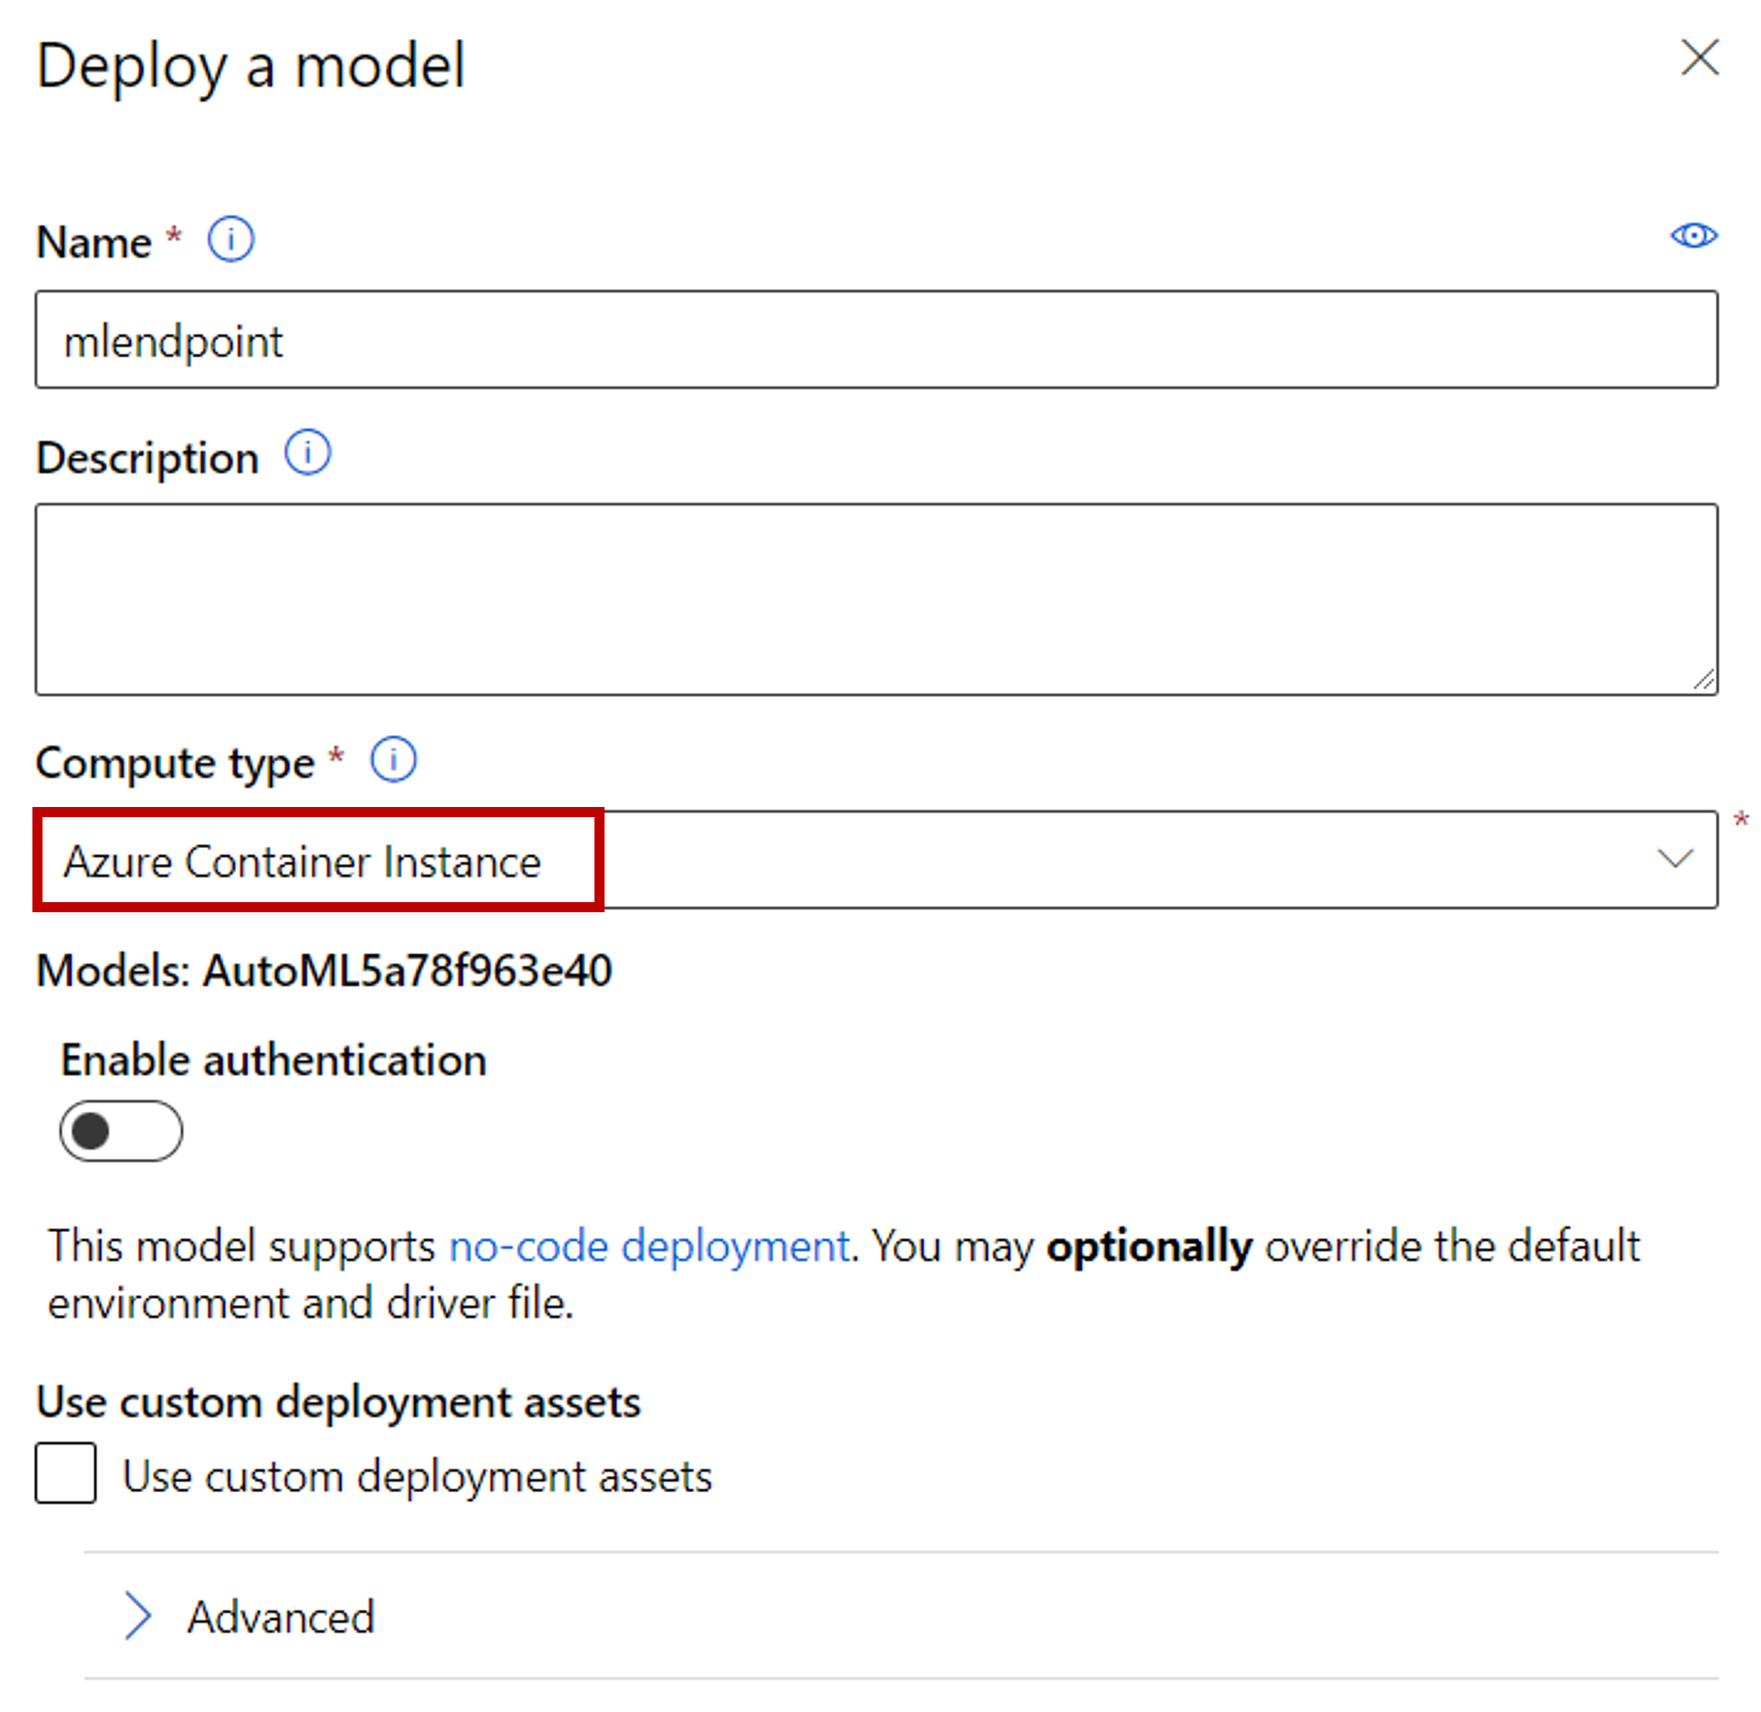
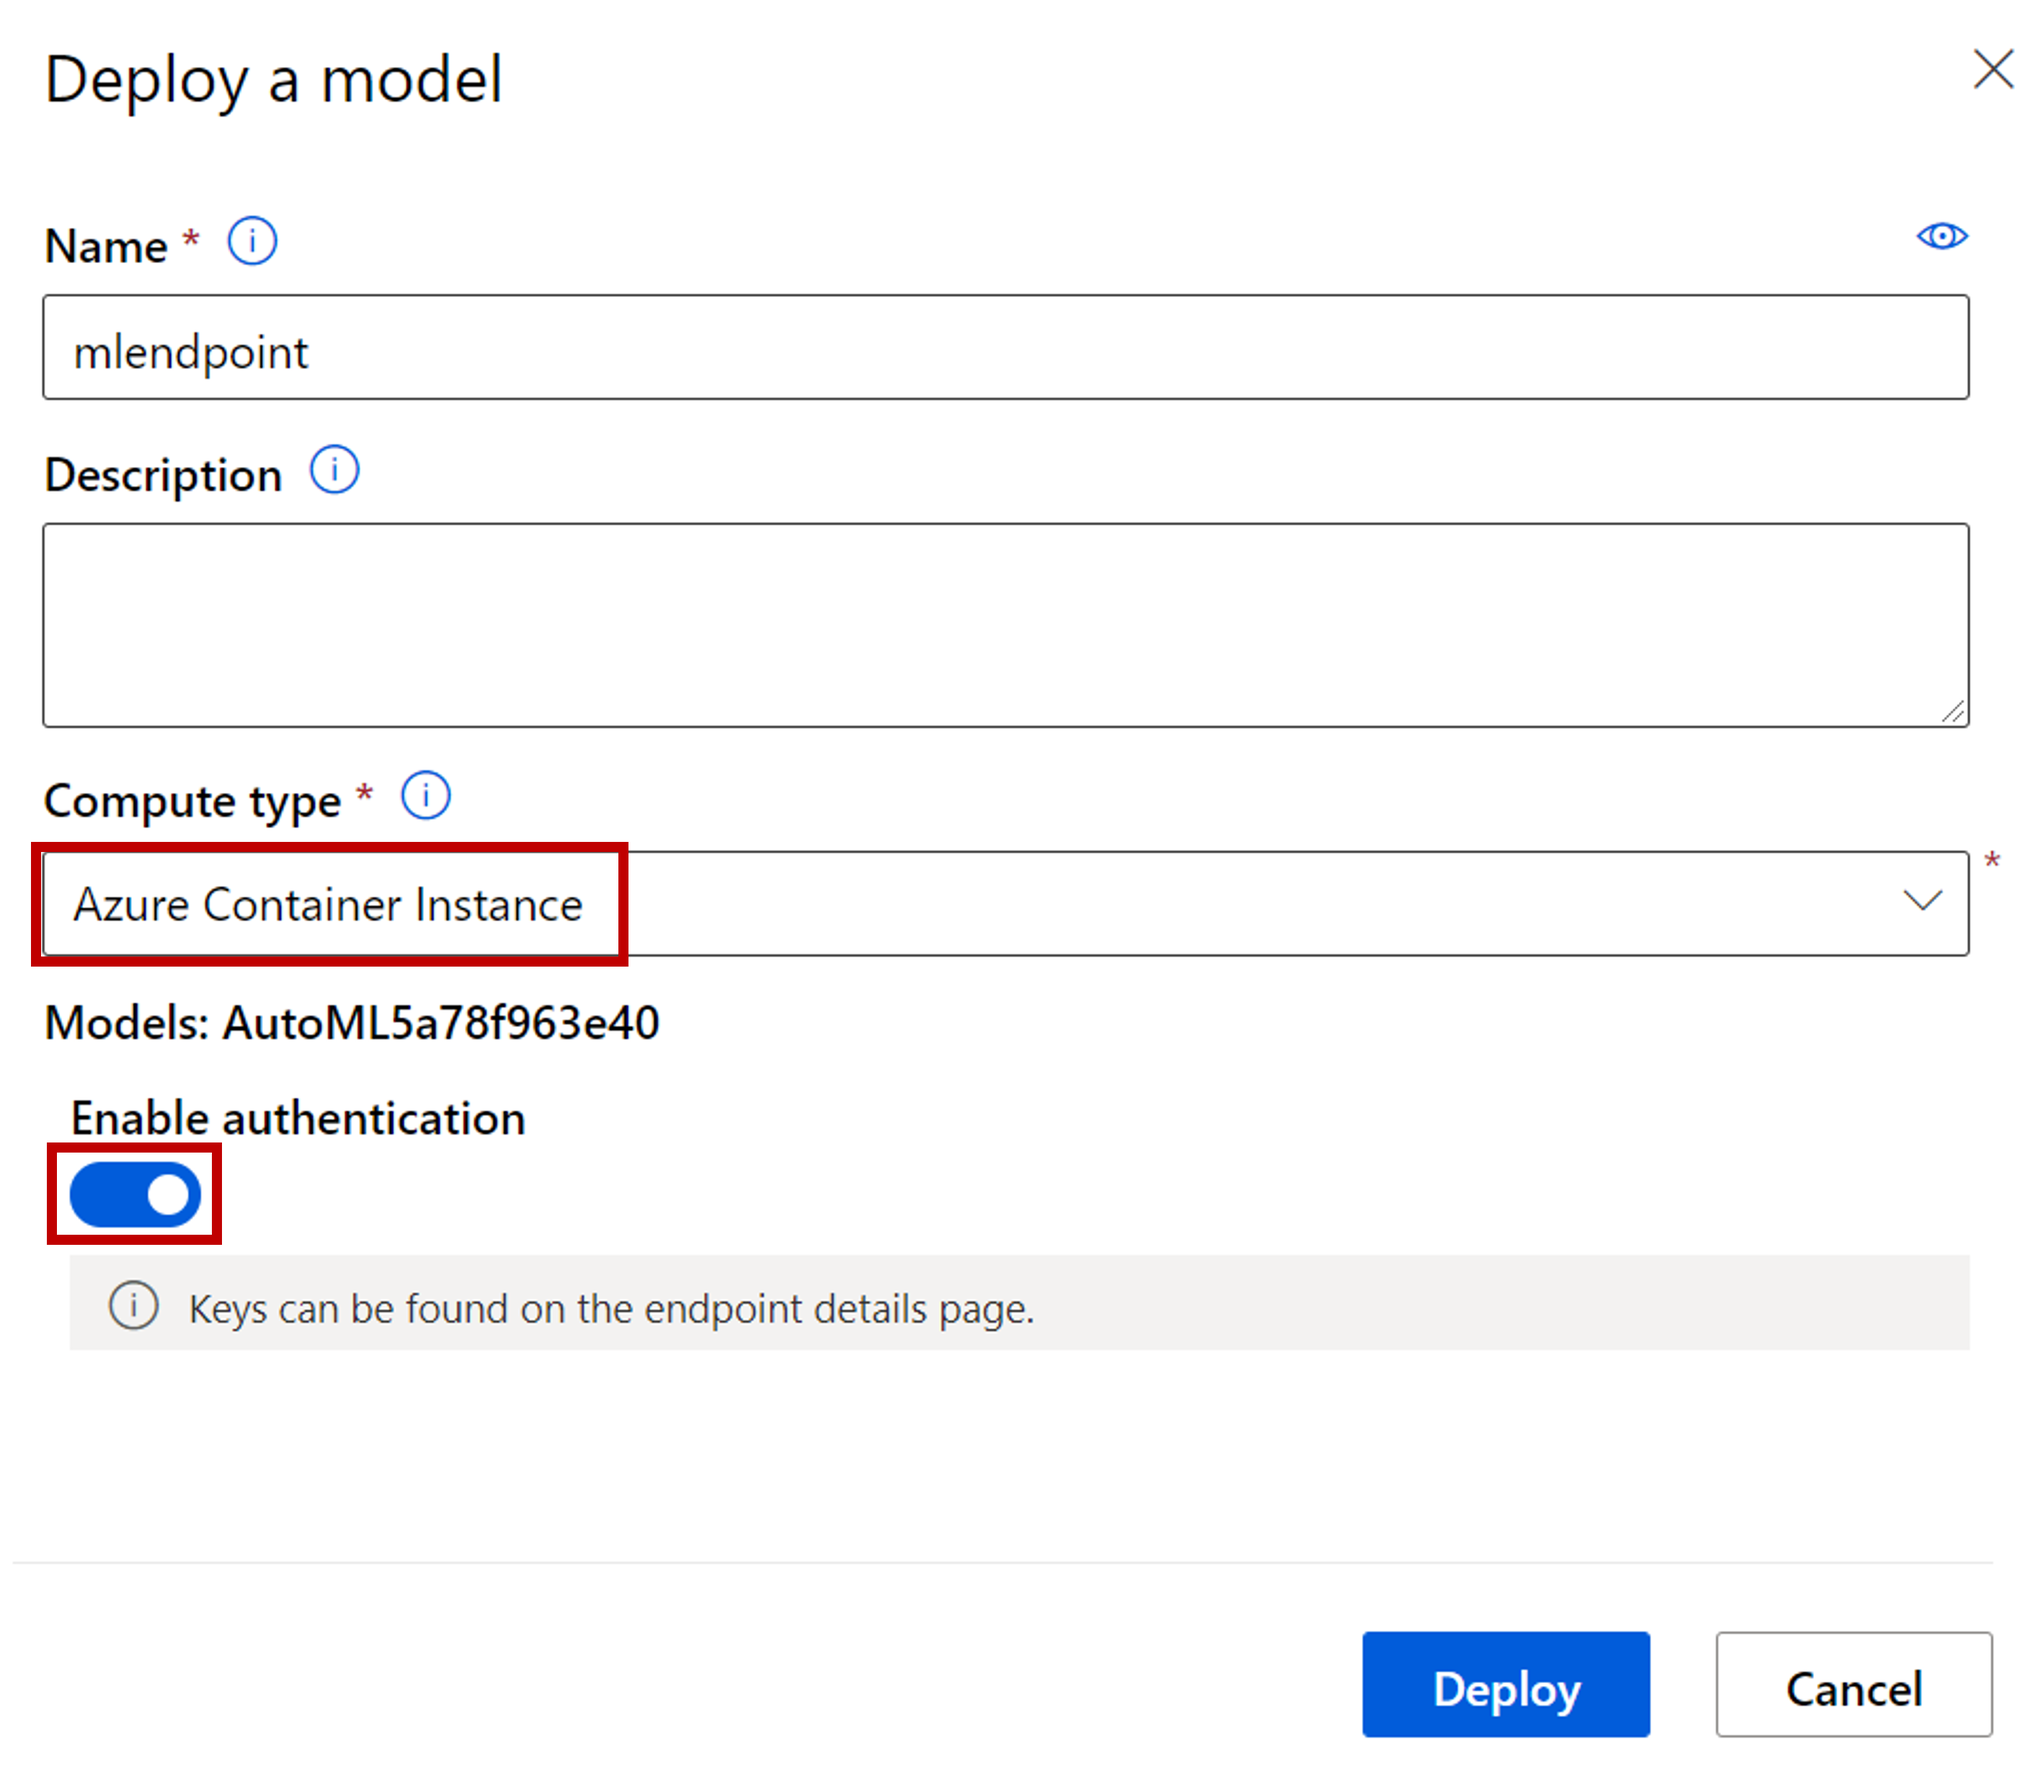
consumer group

diff --git a/04_pi_function.md b/04_pi_function.md
@@ -16,7 +16,7 @@ The automated Machine Learning model should have trained by now.
 1. There select the **VotingEnsemble** - it should be the best ML Algorithm for the given data.
 1. Select **Deploy** so we can consume this ML model as an endpoint. 
     ![Showing where AutoML can be found in the azure machine learning studio](/images/04deploy.png) <br>
-    There give it a name e.g. **mlendpoint** and for *Compute type* select **Azure Container Instance**. After that hit **Deploy**. 
+    There give it a name e.g. **mlendpoint** and for *Compute type* select **Azure Container Instance**. Switch **Enable authentication** to on. After that hit **Deploy**. 
     ![Showing where AutoML can be found in the azure machine learning studio](/images/04deploy1.png) <br>
 This will take a bit so let's move on to the next task.
 
